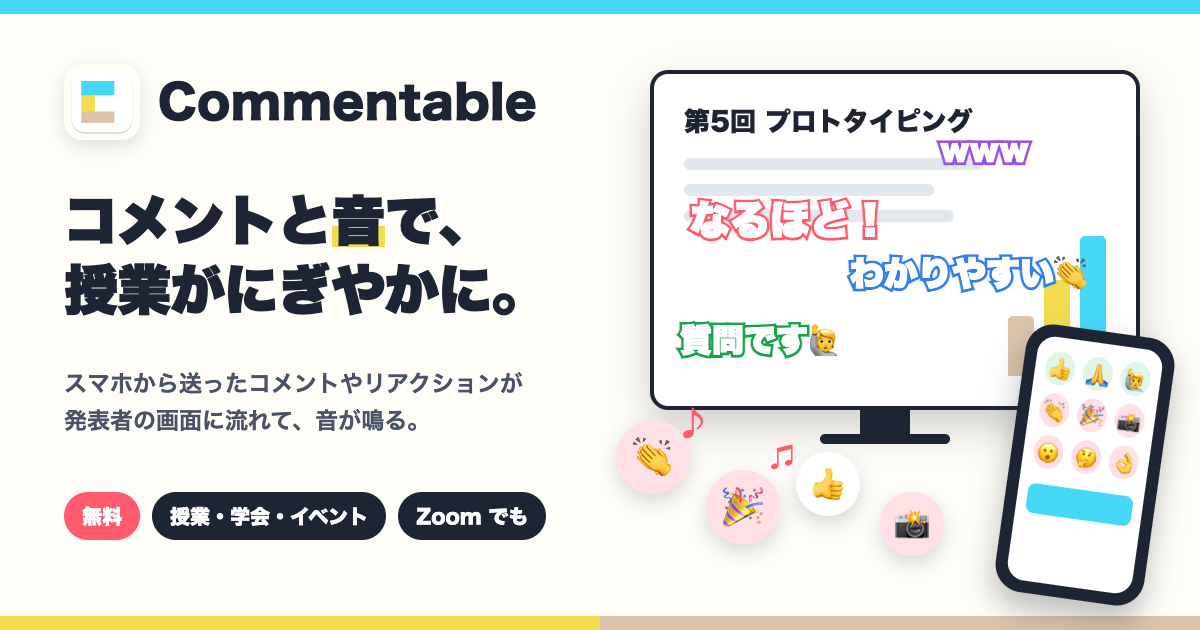
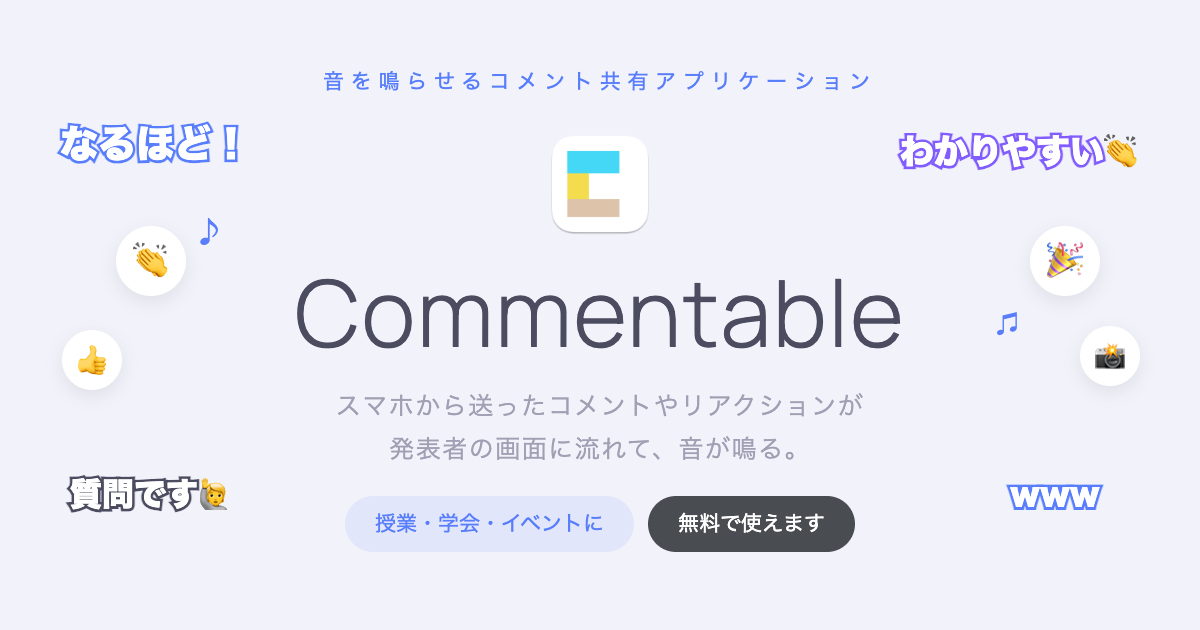
docs: OGP 画像を Web サイトの見た目（最初の画面）に合わせて作り直し

Changed region(s): [[0.0, 0.0905, 1.0, 1.0], [0.0, 0.0, 1.0, 0.0302], [0.74, 0.8143, 0.7708, 0.9048]]

diff --git a/docs/assets/ogp/ogp.html b/docs/assets/ogp/ogp.html
@@ -1,142 +1,96 @@
 <!DOCTYPE html>
 <!--
-  SNS で共有したときの画像（OGP）の元データ
-  書き出し（1200×630 の ogp.png を作る）:
+  SNS で共有したときの画像（OGP）の元データ。Web サイトの最初の画面と同じ見た目にしている
+  書き出し（1200×630 の ogp.png を作る。Web フォントを読み込むので少し待つ）:
     "/Applications/Google Chrome.app/Contents/MacOS/Google Chrome" --headless=new --hide-scrollbars \
-      --window-size=1200,630 --screenshot=docs/assets/images/ogp.png docs/assets/ogp/ogp.html
+      --window-size=1200,630 --virtual-time-budget=5000 \
+      --screenshot=docs/assets/images/ogp.png docs/assets/ogp/ogp.html
 -->
 <html lang="ja">
 <head>
 <meta charset="utf-8">
+<link href="https://fonts.googleapis.com/css2?display=swap&family=Manrope:wght@300;400&family=Roboto:wght@300;400" rel="stylesheet">
 <style>
+  /* Web サイト（assets/main.css）と同じ色 */
   :root {
-    --cyan: #45d8f9;
-    --yellow: #f2dc50;
-    --beige: #dcc4ab;
-    --ink: #1d2433;
+    --background: #F2F2FA;
+    --title: #4C4C61;
+    --text: #A19FB3;
+    --accent: #597EFC;
+    --accent-soft: rgba(89, 126, 252, 0.102);
+    --purple: #815CFF;
+    --button: #494D52;
   }
   * { box-sizing: border-box; margin: 0; padding: 0; }
   html, body { width: 1200px; height: 630px; overflow: hidden; }
   body {
-    font-family: "Hiragino Sans", "Hiragino Kaku Gothic ProN", sans-serif;
-    color: var(--ink);
-    background: #fffdf7;
+    background: var(--background);
+    font-family: 'Roboto', "Hiragino Sans", sans-serif;
+    font-weight: 300;
     position: relative;
   }
-  /* 背景の色帯（ロゴの3色） */
-  .band { position: absolute; }
-  .band.cyan { left: 0; top: 0; width: 1200px; height: 14px; background: var(--cyan); }
-  .band.yellow { left: 0; bottom: 0; width: 600px; height: 14px; background: var(--yellow); }
-  .band.beige { left: 600px; bottom: 0; width: 600px; height: 14px; background: var(--beige); }
 
-  /* 左: ロゴと説明 */
-  .brand { position: absolute; left: 64px; top: 64px; display: flex; align-items: center; gap: 18px; }
-  .brand img { width: 76px; height: 76px; border-radius: 18px; box-shadow: 0 6px 18px rgba(0,0,0,.12); }
-  .brand .name { font-size: 46px; font-weight: 800; letter-spacing: .5px; }
-  .headline {
-    position: absolute; left: 64px; top: 186px; width: 560px;
-    font-size: 54px; font-weight: 900; line-height: 1.28; letter-spacing: -.5px;
+  /* 中央: Web サイトの最初の画面と同じ構成 */
+  .hero {
+    position: absolute; left: 0; right: 0; top: 66px;
+    display: flex; flex-direction: column; align-items: center; text-align: center;
   }
-  .headline em { font-style: normal; background: linear-gradient(transparent 62%, var(--yellow) 62%); }
+  .kicker {
+    color: var(--accent); font-family: 'Manrope', "Hiragino Sans", sans-serif; font-weight: 400;
+    font-size: 21px; letter-spacing: 0.32em;
+  }
+  .logo { margin-top: 26px; width: 120px; height: 120px; } /* 角丸と影は画像に含まれている */
+  .title {
+    margin-top: 18px; color: var(--title);
+    font-family: 'Manrope', sans-serif; font-weight: 300; font-size: 92px; letter-spacing: 0.02em; line-height: 1.1;
+  }
   .lead {
-    position: absolute; left: 64px; top: 366px; width: 540px;
-    font-size: 23px; font-weight: 600; line-height: 1.6; color: #4a5266;
+    margin-top: 22px; color: var(--text);
+    font-family: "Hiragino Sans", sans-serif; font-weight: 300; font-size: 25px; letter-spacing: 0.06em; line-height: 1.7;
   }
-  .tags { position: absolute; left: 64px; top: 492px; display: flex; gap: 12px; }
-  .tag {
-    font-size: 20px; font-weight: 800; padding: 9px 18px; border-radius: 999px;
-    background: var(--ink); color: #fff;
+  .pills { margin-top: 26px; display: flex; gap: 14px; }
+  .pill {
+    font-family: "Hiragino Sans", sans-serif; font-weight: 400; font-size: 21px;
+    padding: 12px 30px; border-radius: 999px;
   }
-  .tag.free { background: #ff5a6e; }
+  .pill.soft { background: var(--accent-soft); color: var(--accent); }
+  .pill.dark { background: var(--button); color: #fff; }
 
-  /* 右: 発表者の画面（スライドにコメントが流れる） */
-  .screen {
-    position: absolute; left: 650px; top: 70px; width: 490px; height: 340px;
-    background: #fff; border-radius: 18px; border: 4px solid var(--ink);
-    box-shadow: 0 18px 40px rgba(29,36,51,.22); overflow: hidden;
-  }
-  .screen .slide-title { position: absolute; left: 30px; top: 28px; font-size: 26px; font-weight: 800; }
-  .screen .line { position: absolute; left: 30px; height: 12px; border-radius: 6px; background: #e3e7ee; }
-  .screen .chart { position: absolute; right: 30px; bottom: 30px; display: flex; align-items: flex-end; gap: 10px; }
-  .screen .chart div { width: 26px; border-radius: 5px 5px 0 0; }
-  .stand { position: absolute; left: 860px; top: 410px; width: 50px; height: 26px; background: var(--ink); }
-  .stand-base { position: absolute; left: 820px; top: 434px; width: 130px; height: 10px; border-radius: 5px; background: var(--ink); }
-
-  /* 流れるコメント（アプリと同じ縁取り文字） */
+  /* まわり: 画面に流れるコメント（アプリと同じ縁取り文字）とリアクション */
   .comment {
-    position: absolute; font-weight: 900; white-space: nowrap; color: #fff;
+    position: absolute; white-space: nowrap; color: #fff;
+    font-family: "Hiragino Sans", sans-serif; font-weight: 800;
     -webkit-text-stroke: 6px var(--c); paint-order: stroke fill;
   }
-  /* リアクション */
   .reaction {
-    position: absolute; width: 74px; height: 74px; border-radius: 50%;
-    display: flex; align-items: center; justify-content: center; font-size: 40px;
-    background: #fff; box-shadow: 0 8px 20px rgba(29,36,51,.18);
+    position: absolute; width: 70px; height: 70px; border-radius: 50%;
+    display: flex; align-items: center; justify-content: center; font-size: 36px;
+    background: #fff; box-shadow: 0 6px 18px rgba(76, 76, 97, 0.12);
   }
-  .reaction.sound { background: #ffe1e5; }
-  .note { position: absolute; font-size: 34px; font-weight: 900; color: #ff5a6e; }
-  /* スマホ */
-  .phone {
-    position: absolute; left: 1010px; top: 330px; width: 150px; height: 270px;
-    background: var(--ink); border-radius: 28px; padding: 12px; transform: rotate(8deg);
-    box-shadow: 0 16px 30px rgba(29,36,51,.3);
-  }
-  .phone .inner { width: 100%; height: 100%; background: #fff; border-radius: 18px; padding: 14px 10px; display: grid; grid-template-columns: repeat(3, 1fr); gap: 8px; align-content: start; }
-  .phone .btn { height: 34px; border-radius: 50%; display: flex; align-items: center; justify-content: center; font-size: 19px; }
-  .phone .btn.g { background: #dff5e7; }
-  .phone .btn.r { background: #ffe1e5; }
-  .phone .send { grid-column: span 3; margin-top: 8px; height: 30px; border-radius: 8px; background: var(--cyan); }
+  .note { position: absolute; color: var(--accent); font-size: 30px; font-family: "Hiragino Sans", sans-serif; font-weight: 600; }
 </style>
 </head>
 <body>
-  <div class="band cyan"></div>
-  <div class="band yellow"></div>
-  <div class="band beige"></div>
+  <div class="comment" style="--c: var(--accent); left: 60px; top: 116px; font-size: 38px;">なるほど！</div>
+  <div class="comment" style="--c: var(--purple); left: 900px; top: 126px; font-size: 34px;">わかりやすい👏</div>
+  <div class="comment" style="--c: var(--title); left: 70px; top: 470px; font-size: 32px;">質問です🙋</div>
+  <div class="comment" style="--c: var(--accent); left: 1010px; top: 470px; font-size: 32px;">www</div>
 
-  <div class="brand">
-    <img src="../images/image03.png" alt="">
-    <div class="name">Commentable</div>
-  </div>
-  <div class="headline">コメントと<em>音</em>で、<br>授業がにぎやかに。</div>
-  <div class="lead">スマホから送ったコメントやリアクションが<br>発表者の画面に流れて、音が鳴る。</div>
-  <div class="tags">
-    <div class="tag free">無料</div>
-    <div class="tag">授業・学会・イベント</div>
-    <div class="tag">Zoom でも</div>
-  </div>
+  <div class="reaction" style="left: 116px; top: 226px;">👏</div>
+  <div class="reaction" style="left: 62px; top: 330px; width: 60px; height: 60px; font-size: 30px;">👍</div>
+  <div class="reaction" style="left: 1030px; top: 226px;">🎉</div>
+  <div class="reaction" style="left: 1080px; top: 326px; width: 60px; height: 60px; font-size: 30px;">📸</div>
+  <div class="note" style="left: 194px; top: 210px;">♪</div>
+  <div class="note" style="left: 996px; top: 306px; font-size: 24px;">♫</div>
 
-  <div class="screen">
-    <div class="slide-title">第5回 プロトタイピング</div>
-    <div class="line" style="top: 84px; width: 300px;"></div>
-    <div class="line" style="top: 110px; width: 250px;"></div>
-    <div class="line" style="top: 136px; width: 270px;"></div>
-    <div class="chart">
-      <div style="height: 60px; background: var(--beige);"></div>
-      <div style="height: 96px; background: var(--yellow);"></div>
-      <div style="height: 140px; background: var(--cyan);"></div>
-    </div>
-  </div>
-  <div class="stand"></div>
-  <div class="stand-base"></div>
-
-  <div class="comment" style="--c: #ff5a6e; left: 690px; top: 190px; font-size: 40px;">なるほど！</div>
-  <div class="comment" style="--c: #2f80ed; left: 850px; top: 248px; font-size: 34px;">わかりやすい👏</div>
-  <div class="comment" style="--c: #16a34a; left: 680px; top: 316px; font-size: 32px;">質問です🙋</div>
-  <div class="comment" style="--c: #9b51e0; left: 940px; top: 128px; font-size: 30px;">www</div>
-
-  <div class="reaction sound" style="left: 616px; top: 420px;">👏</div>
-  <div class="reaction sound" style="left: 706px; top: 470px;">🎉</div>
-  <div class="reaction" style="left: 796px; top: 452px; width: 64px; height: 64px; font-size: 34px;">👍</div>
-  <div class="reaction sound" style="left: 880px; top: 492px; width: 64px; height: 64px; font-size: 34px;">📸</div>
-  <div class="note" style="left: 676px; top: 398px;">♪</div>
-  <div class="note" style="left: 770px; top: 438px; font-size: 26px;">♫</div>
-
-  <div class="phone">
-    <div class="inner">
-      <div class="btn g">👍</div><div class="btn g">🙏</div><div class="btn g">🙋</div>
-      <div class="btn r">👏</div><div class="btn r">🎉</div><div class="btn r">📸</div>
-      <div class="btn r">😮</div><div class="btn r">🤔</div><div class="btn r">👌</div>
-      <div class="send"></div>
+  <div class="hero">
+    <div class="kicker">音を鳴らせるコメント共有アプリケーション</div>
+    <img class="logo" src="../images/image03.png" alt="">
+    <div class="title">Commentable</div>
+    <div class="lead">スマホから送ったコメントやリアクションが<br>発表者の画面に流れて、音が鳴る。</div>
+    <div class="pills">
+      <div class="pill soft">授業・学会・イベントに</div>
+      <div class="pill dark">無料で使えます</div>
     </div>
   </div>
 </body>

diff --git a/docs/index.html b/docs/index.html
@@ -14,7 +14,7 @@
 		<meta property="og:url" content="https://tetsuakibaba.github.io/commentable/" />
 		<meta property="og:locale" content="ja_JP" />
 		<!-- 共有用の画像は assets/ogp/ogp.html から作る（書き出し方はそのファイルの先頭を参照） -->
-		<meta property="og:image" content="https://tetsuakibaba.github.io/commentable/assets/images/ogp.png" />
+		<meta property="og:image" content="https://tetsuakibaba.github.io/commentable/assets/images/ogp.png?v=2" />
 		<meta property="og:image:type" content="image/png" />
 		<meta property="og:image:width" content="1200" />
 		<meta property="og:image:height" content="630" />
@@ -22,7 +22,7 @@
 		<meta name="twitter:card" content="summary_large_image" />
 		<meta name="twitter:title" content="Commentable | 音を鳴らせるコメント共有アプリケーション" />
 		<meta name="twitter:description" content="スマホから送ったコメントやリアクションが発表者の画面に流れて、音が鳴る。授業・学会・イベントで無料で使えます。" />
-		<meta name="twitter:image" content="https://tetsuakibaba.github.io/commentable/assets/images/ogp.png" />
+		<meta name="twitter:image" content="https://tetsuakibaba.github.io/commentable/assets/images/ogp.png?v=2" />
 		<link rel="icon" type="image/png" href="assets/images/favicon.png" />
 		<link rel="apple-touch-icon" href="assets/images/apple-touch-icon.png" />
 		<link href="https://fonts.googleapis.com/css2?display=swap&family=Manrope:ital,wght@0,300;0,400;0,700;1,300;1,400;1,700&family=Roboto:ital,wght@0,300;0,400;1,300;1,400" rel="stylesheet" type="text/css" />
